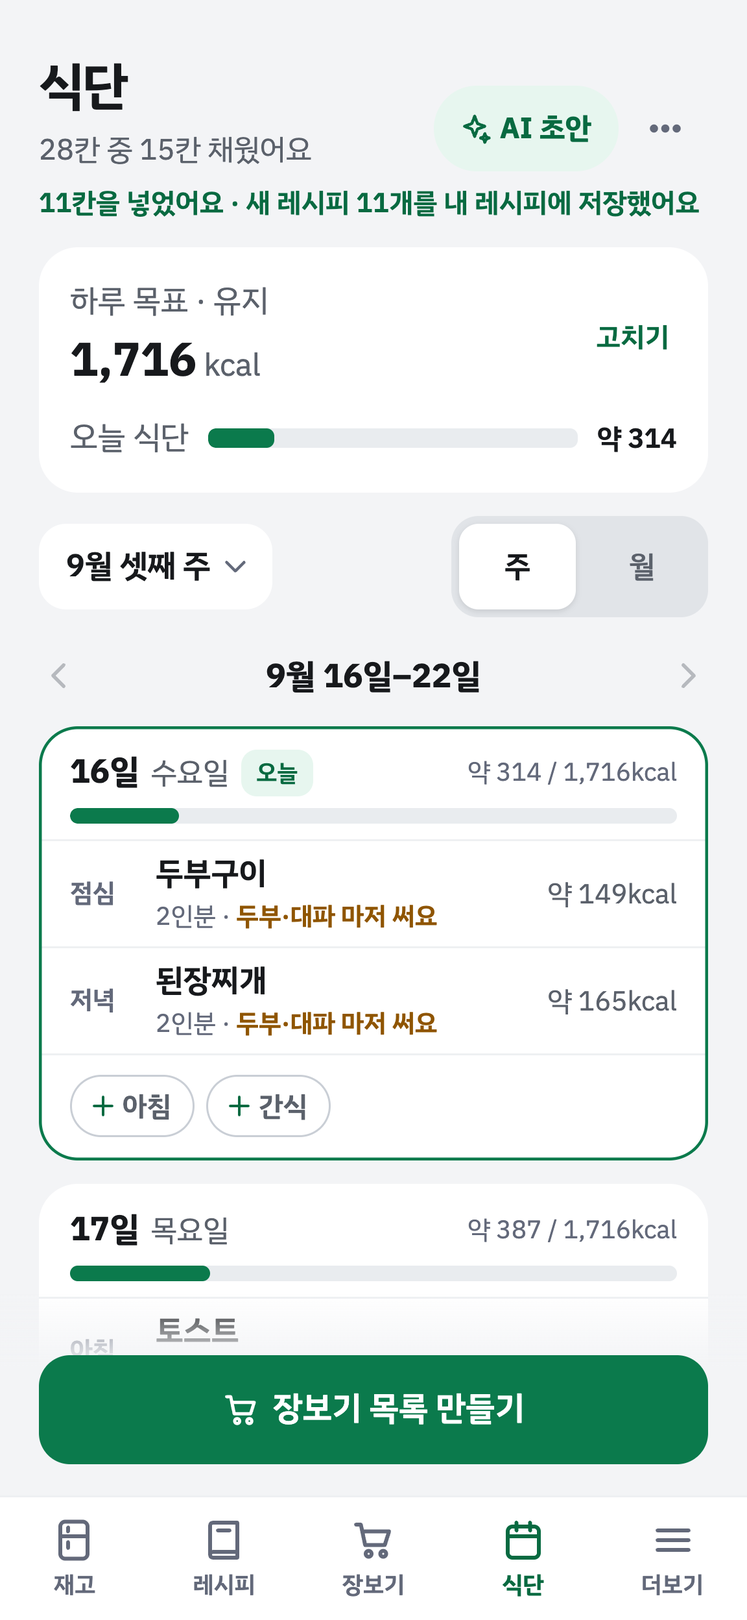
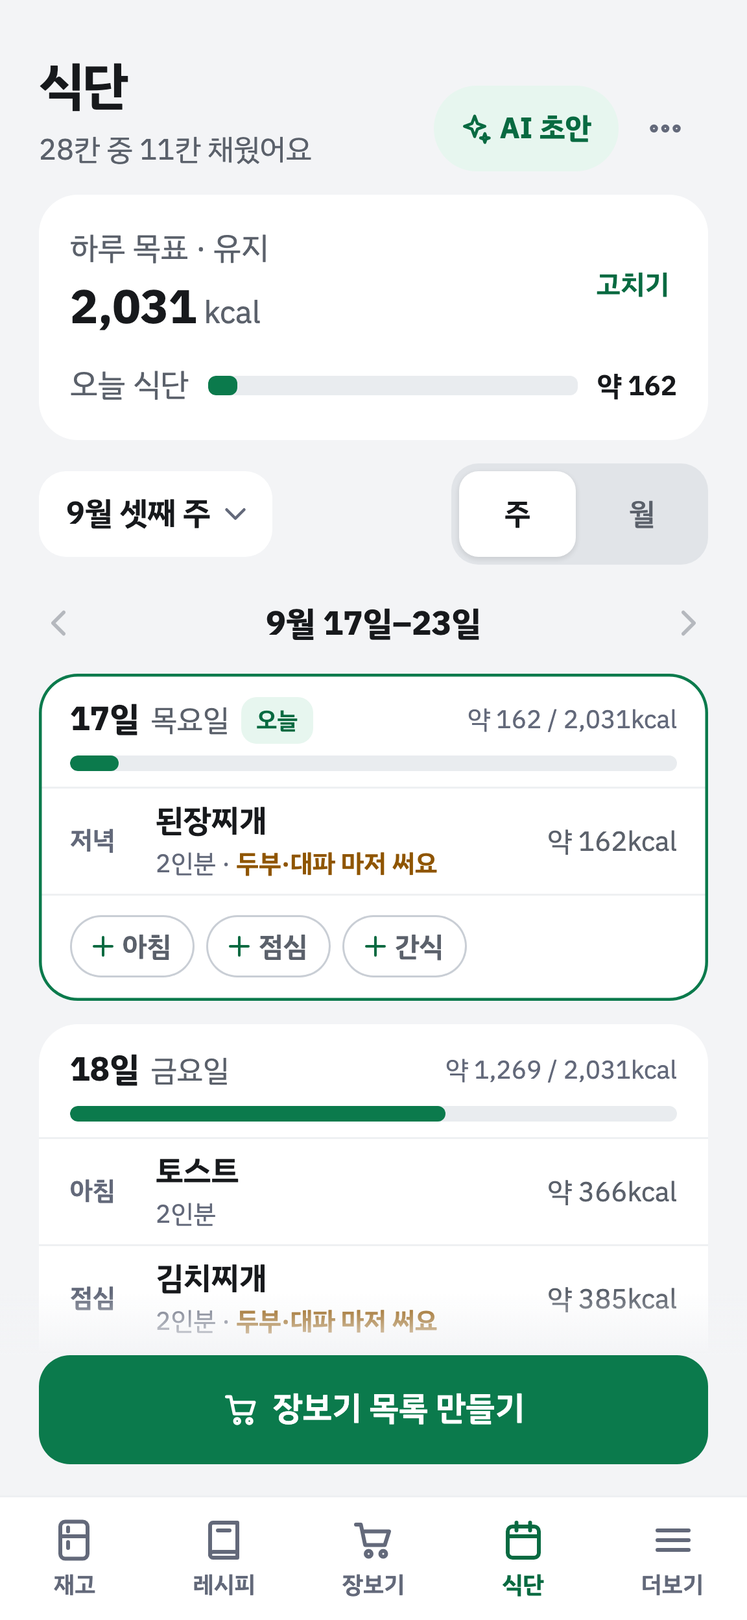
docs: 9/17 최종 제출 준비 — 스크린샷 다시 찍기, 새 기능 반영, 체크리스트 갱신
체험 식단이 9/16 밤부터 바뀌어(끼니마다 저녁 전부·점심 2개 채움) 식단 스크린샷
21·22·24·27을 오늘 날짜 기준으로 다시 찍고, 쇼핑몰에서 한꺼번에 찾기 화면 39를
새로 추가했다(PROD /?demo=1, 로그아웃 새 컨텍스트, 실제 AI 호출 없음). 21을 쓰는
form/00·04 이미지도 다시 렌더링.

README·01·03·05 문서에 9/17 병합분(체험 식단 고치기, 요리 일기 직접 쓰기, 여러
요리 가져오기, 레시피 상세 재고 남은 양, 쇼핑몰에서 한꺼번에 찾기, 영상 검색,
영양 값 빠짐 표시 등)을 반영하고 테스트 수치를 1,605개·E2E 74개로 갱신.

체크리스트 0절에 오늘 병합 4건 행 추가, 폰 확인·스모크·공공 레시피 동기화·
저장소 공개·최종 테스트·쇼핑몰 정렬 링크 항목을 실제 진행 상태로 갱신.

diff --git a/docs/submission/04-제출-체크리스트.md b/docs/submission/04-제출-체크리스트.md
@@ -22,11 +22,16 @@
 
 | 완료 | 순서 | 할 일 | 담당 | 메모 |
 |---|---|---|---|---|
-| [ ] | 1 | 저녁 폰 확인: 배포 주소에서 식단 탭(만들기 → 칸 채우기 → AI 초안 → 장보기 목록 만들기), 로그인 로고·지난번 로그인, 카메라/앨범 버튼 | 사용자 | 9/16(수) 저녁. 식단은 이미 배포돼 있지만 폰 확인(4b-1 계획 Task 10)은 아직입니다. 문제가 있으면 기능 브랜치에서 고친 뒤 배포합니다. |
-| [ ] | 2 | 새 기능 확인: 재고 사진 여러 장·구입일 칩·`기억 안 나요`, 레시피 사진 5장, 체험 계정 예시 식단, 내보내기 `meals.csv`·`food_logs.csv`·`cook_logs.csv` | 사용자 | 배포 주소에서 4절과 함께 봅니다. |
+| [x] | 1 | 저녁 폰 확인: 배포 주소에서 식단 탭(만들기 → 칸 채우기 → AI 초안 → 장보기 목록 만들기), 로그인 로고·지난번 로그인, 카메라/앨범 버튼 | 사용자 | 9/16(수) 저녁. 완료 — 9/17 테스트는 Claude 담당으로 사용자가 결정, Claude의 폰 크기(384×832) 화면 확인 + 사용자 스크린샷 승인으로 대신함. |
+| [x] | 2 | 새 기능 확인: 재고 사진 여러 장·구입일 칩·`기억 안 나요`, 레시피 사진 5장, 체험 계정 예시 식단, 내보내기 `meals.csv`·`food_logs.csv`·`cook_logs.csv` | 사용자 | 완료 — Claude 폰 크기 화면 확인 + 사용자 스크린샷 승인(9/17). |
 | [x] | 3 | `git push origin main` | 사용자 | 완료(`b560ed4`). 심사 기간에는 큰 기능을 폰 확인 없이 올리지 않습니다. 마지막 배포 뒤 자동 배포를 끄는 일은 8절에 있습니다. |
-| [ ] | 4 | 배포 끝난 뒤 스모크: `/` 200, `/api/me` 401, `/manifest.webmanifest` 200, 체험하기 → 식단 탭에 예시 식단 | 사용자 + Claude | 9/15 낮 확인값: 세 주소 모두 기대대로(배포본 `4d86b25`). |
+| [x] | 4 | 배포 끝난 뒤 스모크: `/` 200, `/api/me` 401, `/manifest.webmanifest` 200, 체험하기 → 식단 탭에 예시 식단 | 사용자 + Claude | 9/15 낮 확인값: 세 주소 모두 기대대로(배포본 `4d86b25`). 9/17 재확인: `/` 200, `/api/me` 401, `/api/auth-options` 200, 체험하기 → 식단 탭 흐름 정상. |
 | [x] | 5 | Render 웹 서비스 → **Shell**: `flask --app app seed-default-channels`(9/15 사용자 완료) | 사용자 | 기본 요리 채널 14개. 로그인 계정의 영상 칸에 쓰입니다(체험 계정은 받아 둔 기본 채널 영상을 읽기만 함, 없으면 예시). |
+| [x] | 6 | `git push origin main`(`ad2b398`) | 사용자 | 완료. 체험 식단 고치기 — 빈 날 채우기(저녁 매일·점심 사흘·아침 하루), 양념 묶음 규칙, 장보기 수량 소수점, 나트륨 이상 표시, 먹었어요 줄바꿈. |
+| [x] | 7 | `git push origin main`(`5ce8c8a`) | 사용자 | 완료. 요리 일기 직접 쓰기(내 레시피 고르기·레시피 없이 쓰기), 추천 레시피 요리했어요, 재료비 칸 `재료비 (선택)`·도움말 `N인분을 합친 값이에요`. |
+| [x] | 8 | `git push origin main`(`1f89260`) | 사용자 | 완료. 여러 요리 가져오기 — 링크 한 페이지에 요리가 여러 개면 목록으로 모두 찾아 골라서 가져오기(최대 5개). |
+| [x] | 9 | `git push origin main`(`5d698b3`) | 사용자 | 완료. 레시피 상세 재료 줄에 재고 남은 양 표시(`있어요 300g`), 요리 직후 다 쓴 재료는 `다 썼어요`. |
+| [x] | 10 | `git push origin main`(`901fa47`) | 사용자 | 완료. 장보기 — 쇼핑몰에서 한꺼번에 찾기(쇼핑몰을 고르면 품목마다 차례로 찾기 링크), 쿠팡·네이버 쇼핑·이마트몰 낮은 가격순 폰 확인·반영. |
 
 ## 1. 요강과 접수
 
@@ -34,7 +39,7 @@
 |---|---|---|---|---|
 | [ ] | 요강 원문 확인 | 사용자 | 받는 즉시 | 양식 항목(대표 이미지·제목·문제·AI 활용·스택·링크·스크린샷 5장)은 05에 반영했습니다. 분량 제한·영상 여부·저장소 공개 여부가 요강에 있으면 Claude에 붙여 넣습니다. |
 | [x] | 참가 접수 | 사용자 | **9/16 오전** | 팀/개인 구분, 서비스 이름 `갈무리부엌`. 9/16 완료 |
-| [ ] | 저장소 공개 여부 결정 | 사용자 | 9/16 | 공개하면 커밋 기록에 비밀값이 없는지 Claude가 한 번 더 훑습니다. |
+| [x] | 저장소 공개 여부 결정 | 사용자 | 9/16 | 결정: 공개 가능. Claude가 9/17 전체 git 기록(모든 커밋)을 훑어 비밀값 없음을 확인했습니다. |
 | [x] | 작성자·연락처 칸 채우기 | 사용자 | 9/16 완료 | README와 `docs/site/portfolio.html`의 `[이름]`·`[이메일]`·`[GitHub]`, `product.html` 바닥글의 `[회사명]`·`[제휴·투자 문의]`(문의 이메일은 채움, 8절 7번) |
 
 ## 2. 키와 외부 계정
@@ -45,7 +50,7 @@
 |---|---|---|---|---|
 | [x] | Claude API 월 사용 한도와 잔액 확인 | 사용자 | 9/16 | 크레딧이 떨어지면 AI 기능이 오류로 끝납니다. `DEMO_AI_GLOBAL_DAILY=80`은 월 한도 $30에 맞춘 값입니다(2026-09-15 한도 상향: 로그인 20/20·체험 5번). 월 한도 $30은 9/15 올림(완료). 잔액 $24(9/15 확인). 심사 기간 중 한 번 더 잔액을 봐요(잔액이 0이면 한도와 관계없이 AI가 오류로 끝나요). |
 | [ ] | R2 네 값이 Render 웹 서비스·Cron 둘 다에 있는지 | 사용자 | 9/16 | 없으면 메모 사진이 `사진을 지금은 올릴 수 없어요.`로 막힙니다. |
-| [ ] | 공공 레시피 전체 동기화 여부 확인 | 사용자 | 9/16 | 추천 칸의 식약처 레시피가 12개뿐이면 예시 레시피 상태입니다 → Render Shell `flask --app app sync-public-recipes`(`FOODSAFETY_API_KEY` 필요) |
+| [x] | 공공 레시피 전체 동기화 여부 확인 | 사용자 | 9/16 | 완료 — 사용자가 12건보다 많은 공공 레시피를 확인했습니다(전체 동기화됨). 추천 칸의 식약처 레시피가 12개뿐이면 예시 레시피 상태입니다 → Render Shell `flask --app app sync-public-recipes`(`FOODSAFETY_API_KEY` 필요) |
 | [x] | 기본 요리 채널 목록 확정 | 사용자 + Claude | 9/14 | 14개(`15df7e0`). 넣기는 0절 5번 |
 | [x] | 카카오·네이버 로그인 Redirect URI 등록 | 사용자 | 9/15 | 배포 주소 기준 |
 | [ ] | 구글 로그인 Redirect URI 등록 | 사용자 | 9/16 | 남은 하나. 등록 전에는 구글 로그인이 오류로 끝나니 시연은 체험하기·카카오로 합니다. |
@@ -77,9 +82,9 @@ push 뒤 배포 주소에서 합니다. 0절 1번에서 이미 본 항목은 건
 | [ ] | AI 레시피 3개, 링크 가져오기(블로그 주소 1개), 레시피 사진으로 가져오기 | 사용자 | 9/16 | 체험 계정은 AI 레시피 한도 하루 5번을 AI 레시피·가져오기·AI 식단 초안이 함께 씁니다. 시연용 블로그 주소를 정해 둡니다. |
 | [ ] | 손메모 사진 → 살 것 뽑기, 살 것 추가의 `사진에서 뽑기`, 메모 사진 올리기 | 사용자 | 9/16 | R2 연결 확인 |
 | [ ] | 오프라인: 장보기 한 번 연 뒤 비행기 모드 → 앱 닫고 다시 열기 → 체크 → 비행기 모드 끄기 | 사용자 | 9/16 | 목록이 열리고, 연결 뒤 저장되는지 |
-| [ ] | 식단 탭: 체험 계정 예시 식단 → 장보기 목록 만들기 → AI 초안 → 넣기 | 사용자 | 9/16 | 인분·kcal 표시, 초안은 1분쯤 걸림 |
+| [ ] | 식단 탭: 체험 계정 예시 식단 → 장보기 목록 만들기 → AI 초안 → 넣기 | 사용자 | 9/16 | 인분·kcal 표시, 초안은 1분쯤 걸림. 폰 확인은 스크린샷으로 대신(9/17, 목표 정하기→주 보기→월 보기→장보기 목록 만들기 흐름: `21`·`22`·`24`). |
 | [ ] | 더보기 → 데이터 내보내기에 식단 줄, 받은 zip에 `meals.csv` | 사용자 | 9/16 | |
-| [ ] | 다크 테마에서 재고·장보기·레시피 상세·식단 | 사용자 | 9/16 | |
+| [ ] | 다크 테마에서 재고·장보기·레시피 상세·식단 | 사용자 | 9/16 | 식단만 스크린샷으로 확인(9/17 `27-meals-dark`). 재고·장보기·레시피 상세는 실기기 확인 필요. |
 | [ ] | 삼성 인터넷에서도 체험하기·오프라인 한 번 | 사용자 | 9/16 | |
 | [ ] | 점검에서 나온 문제 고치기 | Claude | 9/17 오전 | 기능 브랜치 → 검토 → 병합, 폰 확인 뒤 push |
 
@@ -87,8 +92,8 @@ push 뒤 배포 주소에서 합니다. 0절 1번에서 이미 본 항목은 건
 
 | 완료 | 할 일 | 담당 | 기한 | 메모 |
 |---|---|---|---|---|
-| [ ] | 쇼핑몰 7곳 × 정렬 링크를 폰에서 열어 결과 적기 | 사용자 | 9/16 | [확인표](../superpowers/store-links-phone-check.md). 검색어 유지, 정렬 적용, 앱으로 넘어갈 때 동작 |
-| [ ] | 통과한 칸만 `storeLinks.ts`에 반영(`verified` 날짜) | Claude | 9/17 | 확인 전에는 쇼핑몰마다 `검색 결과` 칩 하나만 보입니다. |
+| [ ] | 쇼핑몰 7곳 × 정렬 링크를 폰에서 열어 결과 적기 | 사용자 | 9/16 | [확인표](../superpowers/store-links-phone-check.md). 검색어 유지, 정렬 적용, 앱으로 넘어갈 때 동작. 9/17까지 쿠팡·네이버 쇼핑·이마트몰 3곳 통과(낮은 가격순), 나머지 컬리·홈플러스·롯데마트·G마켓 4곳은 진행 중. |
+| [x] | 통과한 칸만 `storeLinks.ts`에 반영(`verified` 날짜) | Claude | 9/17 | 확인 전에는 쇼핑몰마다 `검색 결과` 칩 하나만 보입니다. 완료 — 쿠팡·네이버 쇼핑·이마트몰 3곳 `verified` 반영(`storeLinks.ts`). |
 
 ## 6. 제출 자료
 
@@ -101,7 +106,7 @@ push 뒤 배포 주소에서 합니다. 0절 1번에서 이미 본 항목은 건
 | [ ] | 시연 사진 준비: 영수증 1장, 냉장고 사진 1장, 손메모 1장 | 사용자 | 9/17 | [시연 시나리오](02-시연-시나리오.md) 준비물 |
 | [ ] | 3분 데모 리허설 2번(시간 재기) | 사용자 | 9/17 | 체험 계정은 같은 IP에서 1시간 30개 |
 | [ ] | 1분 소개 영상 녹화·자막 | 사용자 | 9/17 | [콘티](02-시연-시나리오.md#1분-소개-영상-콘티) |
-| [ ] | 최종 테스트 다시 돌리기 | Claude | 9/17 | 백엔드 SQLite·PostgreSQL, `npm run check`, `npm run build` |
+| [x] | 최종 테스트 다시 돌리기 | Claude | 9/17 | 완료 — 백엔드 1,605개(SQLite·PostgreSQL 모두 통과), `npm run check`, `npm run build`, E2E(Playwright) 74개 통과. |
 | [x] | 1차 제출(지금 스크린샷·05 답안 그대로) | 사용자 | **9/16 오전** | 임시저장은 제출이 아니니 **제출** 버튼까지. 9/20까지 고칠 수 있습니다. 9/16 완료 |
 | [ ] | 서비스 링크 `https://galmuri-kitchen.onrender.com/?demo=1`을 폰 시크릿 탭에서 열어 로그인 화면 없이 재고 화면(체험 안내 카드)이 뜨는지 확인 | 사용자 | 최종 제출 직전, 9/20 23:59:59 전 한 번 더 | 주최 측 안내(9/16): 로그인 화면이 먼저 뜨는 서비스는 로그인하지 않은 상태로도 쓸 수 있어야 합니다. 05 5절 링크가 이 주소이고, 이 기능(`feature/demo-link`)이 배포된 뒤에 봅니다. 기본 주소는 지금처럼 로그인 화면입니다. |
 | [ ] | 최종 제출(새 스크린샷·폼 이미지·답안으로 고쳐 다시 제출) | 사용자 | **9/17 저녁** | 제출 직전 배포 주소가 열리는지 한 번 더 확인. 공식 마감은 9/20 |
@@ -152,6 +157,9 @@ push 뒤 배포 주소에서 합니다. 0절 1번에서 이미 본 항목은 건
 
 `25-scan-multi`는 `03-scan-review`가 여러 장 인식을 보여 줘서 따로 만들지 않았고, `26-recipe-photo-import`는 `26-recipe-add-sheet`로 찍었습니다.
 `form/`은 대표 이미지와 5장입니다: 01 재고와 사진인식, 02 재고로 레시피(그대로), 03 장보기, 04 식단과 영양, 05 요리일기와 집밥리포트. 05 문서 6절 순서와 같습니다.
+
+**9/17 다시 찍은 것** — 9/16 밤 이후 체험 식단이 바뀌어(끼니마다 저녁 전부·점심 2개 채움) 오늘 날짜 기준으로 다시 찍었습니다. 같은 조건(Playwright 크롬, 384×832 @3x·터치, PROD `/?demo=1`, 로그아웃 상태 새 컨텍스트, 실제 AI 호출 없음). `21-meals-week`·`22-meals-month`·`24-meal-shopping`은 같은 체험 계정 세션에서 하루 칼로리 목표를 정한 뒤(README 표 예시처럼 목표 카드가 채워지도록) 이어서 찍었고, `27-meals-dark`는 목표를 정하지 않은 새 세션(다크)입니다. `21`을 쓰는 `form/00-대표이미지.png`·`form/04-식단과-영양.png`도 `render.sh`로 다시 만들었습니다.
+새 파일 `39-store-find-all.png`(장보기 → 쇼핑몰에서 한꺼번에 찾기 → 쿠팡 → 품목별 찾기 목록)을 README 장보기 표에 추가했습니다.
 
 ## 7. 출시 전 확인(제출과 별개)
 

diff --git a/README.md b/README.md
@@ -62,17 +62,17 @@
 
 - **추천**: 내 레시피와 식약처 조리식품 레시피 DB(인증키 연결 후 약 1,100건, 키가 없으면 예시 레시피 12건)를 재고와 비교해 일치율 순으로 보여 줍니다. 임박 재료를 쓰는 레시피가 앞으로 옵니다.
 - **AI 레시피**: 재고로 레시피 3개를 만듭니다. 빨리 먹어야 할 재료를 먼저 넣습니다. 사진은 새로 만들지 않고, 이름이 비슷한 공공 레시피 사진을 `비슷한 요리 사진`으로 밝혀 씁니다.
-- **링크·글 가져오기**: 유튜브(설명란)·블로그·인스타그램 링크나 붙여 넣은 글을 AI가 재료·만드는 법으로 정리합니다. 확인 화면에서 고친 뒤 저장합니다.
+- **링크·글 가져오기**: 유튜브(설명란)·블로그·인스타그램 링크나 붙여 넣은 글을 AI가 재료·만드는 법으로 정리합니다. 확인 화면에서 고친 뒤 저장합니다. 한 페이지에 요리가 여러 개(레시피 모음 글 등)면 목록으로 모두 찾아 최대 5개까지 골라서 가져옵니다. 링크를 못 읽으면 화면 캡처로 가져오기를 안내합니다.
 - **사진으로 가져오기**: 요리책·캡처·손글씨 사진을 찍으면 AI가 레시피로 정리합니다.
-- **영상**: 기본 요리 채널 14개가 들어 있고, 내 채널은 30개까지 추가합니다. 전체 영상 목록은 채널당 최신 12개까지 섞고, 채널 칩은 짧은 이름으로 보여 줍니다. 고른 채널의 새 영상만 앱 안에서 보고 `레시피로 가져오기`를 누릅니다.
+- **영상**: 기본 요리 채널 14개가 들어 있고, 내 채널은 30개까지 추가합니다. 전체 영상 목록은 채널당 최신 12개까지 섞고, 채널 칩은 짧은 이름으로 보여 줍니다. 검색 칸에서 영상 제목·설명으로 찾고, 채널을 고르면 그 채널 안에서 YouTube로 바로 찾습니다. 고른 채널의 새 영상만 앱 안에서 보고 `레시피로 가져오기`를 누릅니다.
 - **양념 비율**: 주재료 무게·인분·완성량 기준으로 늘리고 줄입니다. 결과는 `3½큰술`처럼 실제로 뜰 수 있는 분수로, 아래에 `밥숟가락 약 4개`를 함께 보여 줍니다.
-- **레시피 상세**: 인분 −/+, 가진 재료 표시, `없는 재료 N개 장보기에 담기`.
+- **레시피 상세**: 인분 −/+, 가진 재료 표시, `없는 재료 N개 장보기에 담기`. 재료 줄마다 재고에 남은 양을 `있어요 300g`으로 보여 주고, 요리 직후 다 쓴 재료는 `다 썼어요`로 바뀝니다. 인분을 바꾸면 큰술·작은술 재료 아래에 밥숟가락 환산 줄도 같이 바뀝니다.
 
 ### 장보기
 
-| 목록 | 쇼핑몰에서 찾기 | 재고에 넣기 |
-|---|---|---|
-| <img src="docs/submission/screenshots/10-shopping-list.png" width="200" alt="장보기 목록: 날짜 묶음과 제자리 체크"> | <img src="docs/submission/screenshots/11-store-sheet.png" width="200" alt="쇼핑몰 검색 링크 시트"> | <img src="docs/submission/screenshots/12-stock-in.png" width="200" alt="체크한 항목을 재고로 옮기는 화면"> |
+| 목록 | 쇼핑몰에서 찾기 | 한꺼번에 찾기 | 재고에 넣기 |
+|---|---|---|---|
+| <img src="docs/submission/screenshots/10-shopping-list.png" width="200" alt="장보기 목록: 날짜 묶음과 제자리 체크"> | <img src="docs/submission/screenshots/11-store-sheet.png" width="200" alt="쇼핑몰 검색 링크 시트"> | <img src="docs/submission/screenshots/39-store-find-all.png" width="200" alt="쇼핑몰에서 한꺼번에 찾기: 쿠팡을 고르면 살 것마다 찾기 링크가 줄줄이 보임"> | <img src="docs/submission/screenshots/12-stock-in.png" width="200" alt="체크한 항목을 재고로 옮기는 화면"> |
 
 | 장보기 메모 | 메모 사진 인식 | 오프라인 |
 |---|---|---|
@@ -80,6 +80,7 @@
 
 - **체크**: `오늘 · 이번 주 · 나중에 · 날짜 미정`으로 묶고, 체크한 항목은 제자리에서 줄을 긋습니다.
 - **쇼핑몰 검색**: 쿠팡·네이버 쇼핑·컬리·이마트몰·홈플러스·롯데마트·G마켓 검색 결과로 이동합니다. 결제는 쇼핑몰에서 합니다. `낮은 가격순` 같은 정렬 칩은 폰에서 주소를 확인한 쇼핑몰만 보입니다.
+- **쇼핑몰에서 한꺼번에 찾기**: 살 것이 여러 개면 쇼핑몰을 한 번만 고르고 품목마다 찾기 링크를 차례로 엽니다. 몇 개 열어봤는지 보여 주고, 지난번 고른 쇼핑몰을 다음에 맨 앞으로 기억합니다. 쿠팡·네이버 쇼핑·이마트몰은 낮은 가격순으로 확인돼 있습니다.
 - **재고에 넣기**: 체크한 항목을 산 날·보관 위치와 함께 한 번에 재고로 옮깁니다. 수세미·휴지 같은 생활용품은 `산 것으로만 옮겨요`가 기본입니다.
 - **메모 사진**: 손메모·전단지를 찍으면 AI가 살 것을 뽑고 생활용품을 표시합니다. 확인한 뒤 목록에 담습니다. 살 것 추가에도 `사진에서 뽑기`가 있어 메모 없이 바로 담습니다.
 - **오프라인**: 마트 지하처럼 인터넷이 없어도 목록을 열고 체크·추가·메모를 합니다. 변경은 기기에 쌓였다가 연결되면 보냅니다. 서비스 워커는 HTTPS에서만 동작하므로 배포 주소에서 확인합니다.
@@ -128,8 +129,8 @@
 - **이번 주 복사**: 빈 칸만 채우고, 기간이 모자라면 31일까지 자동으로 늘려요. 이름·기간 고치기, 식단 지우기도 있습니다.
 - **AI 식단 초안**: 끼니·목표 kcal·메모를 넣으면 칸마다 후보 2개를 미리 보여 주고, 1인분 kcal도 AI가 추정해 함께 보여 줍니다. 체크한 칸만 넣고, 새로 나온 요리는 내 레시피에 저장됩니다.
 - **식단으로 장보기**: 인분 배율을 합쳐 재고와 비교하고, 모자란 만큼만 담습니다. 단위가 다르면 직접 고르고, 끼니 전날을 살 날 태그로 붙입니다.
-- **영양 계산**: 내 몸 정보(성별·출생연도·키·몸무게·활동량·목표)로 하루 칼로리 목표를 정하고, 레시피 1인분 영양(탄수화물·단백질·지방·당류·나트륨)과 식단 하루 합계를 봅니다. 재료는 식품영양성분 DB에서 찾고, 못 찾은 재료만 AI가 추정해 `추정`으로 표시합니다.
-- **요리 일기**: 더보기 탭에서 화면까지 동작합니다. 레시피 상세·식단 칸의 `요리했어요`로 쓴 재료를 재고에서 빼고(10초 알림에서 되돌리기), 별점·사진·메모와 아낀 돈(사 먹으면 얼마 × 인분 − 쓴 재료비)을 남깁니다. 먹은 기록 달력에 `요`로 표시됩니다.
+- **영양 계산**: 내 몸 정보(성별·출생연도·키·몸무게·활동량·목표)로 하루 칼로리 목표를 정하고, 레시피 1인분 영양(탄수화물·단백질·지방·당류·나트륨)과 식단 하루 합계를 봅니다. 재료는 식품영양성분 DB에서 찾고, 못 찾은 재료만 AI가 추정해 `추정`으로 표시합니다. 일부 재료만 영양 값이 빠지면 합계를 `이상`과 안내로 보여 주고, 기준치 비율·막대는 값이 확실할 때만 그립니다.
+- **요리 일기**: 더보기 탭에서 화면까지 동작합니다. 레시피 상세·식단 칸의 `요리했어요`로 쓴 재료를 재고에서 빼고(10초 알림에서 되돌리기), 별점·사진·메모와 아낀 돈(사 먹으면 얼마 × 인분 − 쓴 재료비)을 남깁니다. 레시피 없이 요리 이름과 재료비(선택)만 적어 직접 쓸 수도 있고, 나중에 고치기에서 이름도 바꿉니다. 먹은 기록 달력에 `요`로 표시됩니다.
 - **집밥 리포트**: 한 달 동안 아낀 돈·요리 횟수·기록한 날·집밥 비율·버린 재료·지난달 대비·많이 아낀 요리를 봅니다.
 
 ## AI를 쓴 곳
@@ -251,9 +252,9 @@ macOS 기준이며, 명령은 저장소 루트에서 시작합니다.
 ### 테스트
 
 ```
-backend/.venv/bin/pytest -q -W error::DeprecationWarning   # 백엔드 1,478개
+backend/.venv/bin/pytest -q -W error::DeprecationWarning   # 백엔드 1,605개
 cd frontend && npm run check && npm run build              # 순수 로직 검사 스크립트 10개 + 타입 검사·빌드(빌드 전에 styles.css 괄호 짝 검사)
-cd frontend && npm run e2e                                 # 화면 단위 테스트(Playwright) 45개 — 처음 한 번 npx playwright install chromium
+cd frontend && npm run e2e                                 # 화면 단위 테스트(Playwright) 74개 — 처음 한 번 npx playwright install chromium
 ```
 
 E2E는 빌드한 화면을 Flask가 전용 포트(5320)·빈 SQLite로 내어 주고, 테스트마다 새 체험 계정으로 탭 5개의 핵심 흐름(오프라인 장보기 동기화 포함)을 돌립니다. 실제 API 키는 읽지 않아 AI·유튜브는 예시 결과로 돕니다(`frontend/playwright.config.ts`).
@@ -264,11 +265,11 @@ PostgreSQL 검증, 마이그레이션 점검, Docker 스모크 테스트, Render
 
 | 항목 | 수치 |
 |---|---|
-| 기간 | 2026-09-13 10:51 첫 커밋 → 2026-09-16 03:16 `662b928`(약 64시간) |
-| 커밋 | 575개(병합 210, fix 138, feat 103, docs 66) |
+| 기간 | 2026-09-13 10:51 첫 커밋 → 2026-09-17 20:59 `901fa47`(약 106시간) |
+| 커밋 | 722개(병합 248) |
 | 설계 | [설계 문서](docs/superpowers/specs/2026-09-13-recipe-ai-design.md) 29절, [구현 계획](docs/superpowers/plans/) 13개 |
 | 화면 시안 | [`docs/design/`](docs/design/) 11묶음, 사용자 승인 후 구현 |
-| 테스트 | 백엔드 1,478개(SQLite·PostgreSQL 통과, `662b928`), 프론트 검사 스크립트 10개 |
+| 테스트 | 백엔드 1,605개(SQLite·PostgreSQL 통과), 프론트 검사 스크립트 10개, E2E(Playwright) 74개 |
 
 단계: 1 기반·로그인 → 1b 보관 위치·필수품·품목별 경고 → 1c 하단 탭·주방 도구 → 1d 사용성 → 2 사진 인식 → 3a 레시피·추천 → 3b AI 레시피·링크·영상 → 3c 양념 비율 → 더보기 정리 → 4 장보기·오프라인·체험 계정 → 4b-1 식단 짜기 → 4b-2 영양 계산 → 4b-3 먹은 기록 → 5 요리 일기·집밥 리포트.
 
@@ -276,8 +277,8 @@ PostgreSQL 검증, 마이그레이션 점검, Docker 스모크 테스트, Render
 
 | 순서 | 내용 |
 |---|---|
-| 완료 | Render 배포, 4b-2 영양 계산, 4b-3 먹은 기록, 5 요리 일기·집밥 리포트 |
-| 운영 | 쇼핑몰 정렬 링크 폰 확인, 레시피 상세에 남은 재료 양·다 썼어요 표시, 식약처 레시피 전체 동기화, 회원 탈퇴 버튼 |
+| 완료 | Render 배포, 4b-2 영양 계산, 4b-3 먹은 기록, 5 요리 일기·집밥 리포트, 레시피 상세 재고 남은 양·다 썼어요 표시, 쇼핑몰에서 한꺼번에 찾기, 여러 요리 가져오기, 요리 일기 직접 쓰기, 식약처 레시피 전체 동기화 |
+| 운영 | 쇼핑몰 7곳 중 나머지 4곳 정렬 링크 폰 확인, 회원 탈퇴 버튼 |
 
 ## 수익 구조
 

diff --git a/docs/submission/05-제출-양식-답안.md b/docs/submission/05-제출-양식-답안.md
@@ -2,7 +2,7 @@
 
 원티드 AI Championship 2026 제출 양식에 그대로 붙여 넣을 답안입니다.
 코드 블록 안의 글이 붙여 넣을 내용입니다. 답안은 심사위원이 읽는 글이라 합니다체로 맞췄습니다.
-수치는 5단계 화면 병합본(`stage5-ui` `662b928`, 2026-09-16 03:16) 기준입니다. 제출 직전에 수치를 한 번 더 확인합니다.
+수치는 2026-09-17 최종 제출 기준(`main` `901fa47`)입니다.
 
 ## 1. 제목 (30자 이내)
 
@@ -81,10 +81,10 @@
 - 사용자의 재고·식습관 데이터 판매와 배너 광고는 하지 않습니다.
 
 ■ 결과
-- 약 64시간, 커밋 575개, 병합 210개
-- 백엔드 테스트 1,478개(SQLite·PostgreSQL 통과), 프론트 검사 스크립트 10개, 화면 시안 11묶음 승인 후 구현
-- 사진으로 재고 넣기, 임박 경고, AI 레시피, 링크·사진 가져오기, 양념 비율 계산, 오프라인 장보기, 식단 짜기(AI 초안·식단으로 장보기), 영양 계산(하루 칼로리 목표·레시피 영양·식단 하루 합계), 먹은 기록 달력, 요리 일기·집밥 리포트가 지금 동작합니다.
-- 다음 순서: 레시피 상세에 남은 재료 양·다 썼어요 표시(승인 시안과의 차이), 앱 안 회원 탈퇴 버튼
+- 약 106시간, 커밋 722개, 병합 248개
+- 백엔드 테스트 1,605개(SQLite·PostgreSQL 통과), 프론트 검사 스크립트 10개, E2E(Playwright) 74개, 화면 시안 11묶음 승인 후 구현
+- 사진으로 재고 넣기, 임박 경고, AI 레시피, 링크·사진 가져오기(여러 요리는 최대 5개까지 골라 가져오기), 영상 검색(제목·설명), 양념 비율 계산, 오프라인 장보기, 쇼핑몰에서 한꺼번에 찾기, 식단 짜기(AI 초안·식단으로 장보기), 영양 계산(하루 칼로리 목표·레시피 영양·식단 하루 합계), 먹은 기록 달력, 요리 일기(레시피로·직접 쓰기)·집밥 리포트, 레시피 상세 재고 남은 양·다 썼어요 표시가 지금 동작합니다.
+- 다음 순서: 앱 안 회원 탈퇴 버튼
 - 체험: 서비스 링크를 누르면 로그인 없이 체험 계정으로 바로 열립니다(로그인 화면은 https://galmuri-kitchen.onrender.com).
 - 기술: React·TypeScript·Vite(PWA), Flask·PostgreSQL, Render, Cloudflare R2, YouTube Data API, 식품안전나라 레시피 API, 식품영양성분 DB(공공데이터포털)
 ```
@@ -102,7 +102,7 @@
 - 기능마다 git worktree에서 구현 에이전트가 만들고, 코드·보안·UX·접근성·테스트 검토 에이전트가 병렬로 본 뒤 검증 에이전트가 테스트로 확인했습니다. 사람은 기능 범위를 정하고 시안을 승인했습니다.
 
 ■ 결과
-- 약 64시간, 커밋 575개, 병합 210개, 백엔드 테스트 1,478개(SQLite·PostgreSQL), 시안 11묶음 승인
+- 약 106시간, 커밋 722개, 병합 248개, 백엔드 테스트 1,605개(SQLite·PostgreSQL), E2E 74개, 시안 11묶음 승인
 - AI 원가는 호출마다 토큰으로 기록하고, 유료 구독은 AI 사용 횟수로만 나눌 계획입니다. 데이터 판매·배너 광고는 하지 않습니다.
 - 체험: 서비스 링크를 누르면 로그인 없이 체험 계정으로 바로 열립니다.
 ```
@@ -160,7 +160,7 @@ https://galmuri-kitchen.onrender.com/?demo=1
 | 4 | `04-식단과-영양.png` | 하루 목표 kcal과 식단 주 보기, 1인분 kcal이 붙은 AI 식단 초안, 먹은 기록 달력 |
 | 5 | `05-요리일기와-집밥리포트.png` | 요리했어요 뒤 되돌리기 알림, 요리마다 아낀 돈, 한 달 집밥 리포트 |
 
-9/16에 운영 주소 체험 계정 화면으로 다시 만들었습니다. 파일 목록은 [체크리스트 6절](04-제출-체크리스트.md#스크린샷-낡은-것과-새로-필요한-것)에 있습니다.
+9/16에 운영 주소 체험 계정 화면으로 다시 만들었고, 9/17에 바뀐 체험 식단으로 `00`·`04`를 한 번 더 다시 만들었습니다. 파일 목록은 [체크리스트 6절](04-제출-체크리스트.md#스크린샷-낡은-것과-새로-필요한-것)에 있습니다.
 
 ## 7. 라이선스·이용 조건 점검표
 

diff --git a/docs/submission/03-AI-개발-과정.md b/docs/submission/03-AI-개발-과정.md
@@ -155,7 +155,7 @@ flowchart TD
 
 | 일 | 이유 | 지금 상태 |
 |---|---|---|
-| 쇼핑몰 정렬 링크 확인 | 쇼핑몰마다 주소 형식이 다르고 앱으로 넘어갈 때 동작이 달라 실제 폰에서 열어 봐야 합니다. | 확인 전이라 정렬 칩을 숨기고 `검색 결과`만 보입니다([확인표](../superpowers/store-links-phone-check.md)). |
+| 쇼핑몰 정렬 링크 확인 | 쇼핑몰마다 주소 형식이 다르고 앱으로 넘어갈 때 동작이 달라 실제 폰에서 열어 봐야 합니다. | 9/17까지 쿠팡·네이버 쇼핑·이마트몰 3곳은 폰 확인을 마쳐 `낮은 가격순` 정렬 칩이 보입니다. 나머지 컬리·홈플러스·롯데마트·G마켓 4곳은 확인 전이라 `검색 결과`만 보입니다([확인표](../superpowers/store-links-phone-check.md)). |
 | 양념 기본 비율 출처 | 레시피마다 차이가 커서 출처 두 곳 이상과 비교해야 합니다. | 임시값으로 넣고 코드의 출처 메모에 `확인 전`으로 적었습니다. 밥숟가락 12ml도 확인 전입니다. |
 | 기본 요리 채널 선정 | 채널 정책과 콘텐츠를 사람이 봐야 합니다. | 사용자가 14개를 골랐습니다(`15df7e0`). 배포 뒤 Render Shell에서 `flask seed-default-channels`를 한 번 실행해야 합니다. |
 | 실기기 확인 | 카메라·사진 선택기·오프라인은 실제 폰에서만 제대로 확인됩니다. | 4b-1은 이미 배포됐고(`4d86b25`) 폰 확인은 9/15 저녁에 합니다. 후속 병합분은 그 확인 뒤 push합니다. |
